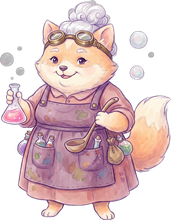
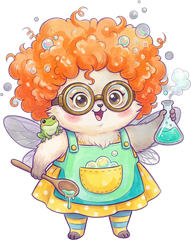
Build 102: new Madame Bubble and Stargazer Lun (glow so he stands out); teacher props moved off the teacher's walking path

diff --git a/js/game.js b/js/game.js
@@ -2,13 +2,13 @@
 import {
   OFFLINE_CAP_SEC, MAX_DESKS, MAX_ITEM_LEVEL, MAX_TEACHER_LEVEL, MAX_TIME_LEVEL,
   CLASSES, SPECIES, NAMES, MISSIONS, WORLDS, WORLD, META,
-} from './data.js?v=100';
-import { EMOJI_RE, emojiImage, preloadEmoji, watchEmoji, emojiHtml } from './emoji.js?v=100';
+} from './data.js?v=102';
+import { EMOJI_RE, emojiImage, preloadEmoji, watchEmoji, emojiHtml } from './emoji.js?v=102';
 
 const SAVE_KEY = WORLD === 1 ? 'magicschool.save.v2' : 'magicschool.save.v2.w' + WORLD;   // every world keeps its own save
 const saveKeyOf = (w) => (w === 1 ? 'magicschool.save.v2' : 'magicschool.save.v2.w' + w);
 const VERSION = '0.9';
-const BUILD = 100;   // keep equal to the ?v= number in index.html
+const BUILD = 102;   // keep equal to the ?v= number in index.html
 const $ = (s, r = document) => r.querySelector(s);
 const rnd = (a) => a[Math.floor(Math.random() * a.length)];
 
@@ -175,7 +175,7 @@ const DECOR = { portrait: { w: 1.2, lo: 0.3, deep: 0.7 }, certificates: { w: 1.3
 const PROP_H = { desk: 50, armchair: 30, palm: 44, tea_table: 22, cabinet: 34, counter: 82, bench_l: 32, bench_r: 32, signpost: 36, coat_rack: 42, bed_pink: 27, bed_mint: 27, bed_lilac: 27, conc_desk: 38, nightstand: 20, toy_chest: 20, pouf_pink: 20, pouf_green: 20, pouf_lilac: 20, lib_desk: 30, globe: 34, book_pile: 28, exdesk_a: 24, exdesk_b: 24, exdesk_c: 24, commission: 30, candelabra: 44, laurel: 42, trophy: 26, cr_fire: 30, cr_water: 30, cr_earth: 30, cr_air: 30, altar: 42, fountain: 30, lectb_lilac: 25, lectb_pink: 25, lectb_mint: 25, cloud_white: 17, cloud_pink: 17, cloud_lilac: 17, perch: 50, tree: 46, lect_lilac: 36, lect_pink: 36, lect_mint: 36, big_book: 52, crystal_ball: 26, tel_gold: 32, tel_silver: 32, tel_rose: 32, big_telescope: 46, orrery: 38, station_pink: 31, station_green: 31, station_purple: 31, big_cauldron: 40, plant: 46, lavender: 30, magic_pot: 27, barrel: 34, basket: 24, table: 34, bookcase: 40 };
 const parts = {};
 for (const [k, t] of Object.entries(THEMES)) for (const n of new Set(['wall', 'floor', t.rug, ...(t.isoOnly ? [] : [t.board, ...t.decor]), ...t.back, ...t.side, ...t.front, ...(t.stations || []), ...(t.seats || []), ...(t.beds || []), ...(t.extras ? t.extras({ x0: 0, y0: 0, x1: 0, y1: 0 }).map((o) => o.n) : []), ...(t.teacherProp ? [t.teacherProp] : []), ...(t.iso ? [t.board, ...t.decor].map((d) => 'iso_' + d) : [])])) {
-  if (!n) continue; const im = new Image(); im.src = `${t.dir}${n}.webp?v=100`; parts[k + '/' + n] = im;
+  if (!n) continue; const im = new Image(); im.src = `${t.dir}${n}.webp?v=102`; parts[k + '/' + n] = im;
 }
 const part = (th, n) => { const im = parts[th + '/' + n]; return im && im.complete && im.naturalWidth ? im : null; };
 const THEMES_OFF = new Set();   // parts still being drawn: keep the painted pictures until they are in
@@ -744,8 +744,10 @@ let scale = 1, dpr = 1, viewW = 0, viewH = 0, zoom = 2.2, pinching = false;
 const ZMIN = 0.9, ZMAX = 3.4;
 const sprites = {};
 // professors drawn one by one, each approved by Maria (class id -> file in assets/staff)
-const STAFF_ART = { herbs: 'moss', potions: 'bubble' };
-for (const [k, f] of Object.entries(STAFF_ART)) { const im = new Image(); im.src = `assets/staff/${f}.png?v=1`; sprites['staff_' + k] = im; }
+const STAFF_ART = { herbs: 'moss', potions: 'bubble', stars: 'lun' };
+const STAFF_H = { lun: 52, bubble: 40 };
+const STAFF_GLOW = { lun: 'rgba(255,240,190,0.95)' };   // drawn height: Lun is tall, Bubble small and round
+for (const [k, f] of Object.entries(STAFF_ART)) { const im = new Image(); im.src = `assets/staff/${f}.png?v=2`; sprites['staff_' + k] = im; }
 for (const sp of SPECIES) for (const v of ['', '_back']) { const im = new Image(); im.src = `assets/creatures/${sp}${v}.png`; sprites[sp + v] = im; }   // front and back views
 const arts = {};
 for (const [k, a] of Object.entries(ART)) { const im = new Image(); im.onload = () => { staticKey = ''; }; im.src = a.src; arts[k] = im; }
@@ -993,7 +995,7 @@ function roomProps(i) {
   if (T.front[0]) out.push({ n: T.front[0], x: s.x0 + 0.5, y: s.y1 - 0.45 });
   if (T.front[1]) out.push({ n: T.front[1], x: s.x1 - 0.55, y: s.y1 - 0.5 });
   if (T.front[2] && s.y1 - free >= 2.4) out.push({ n: T.front[2], x: s.x1 - 0.6, y: free + 0.5 });
-  if (T.teacherProp) { const tp = teacherPos(i); out.push({ n: T.teacherProp, x: tp.x - 1.15, y: tp.y + 0.15 }); }
+  if (T.teacherProp) { const tp = teacherPos(i); out.push({ n: T.teacherProp, x: Math.max(s.x0 + 0.9, tp.x - 3.0), y: tp.y + 0.1 }); }   // beside the teacher's walking path, never in front of it
   return out.map((o) => ({ ...o, th }));
 }
 function drawProp(o) {
@@ -1317,7 +1319,9 @@ function render() {
     }
     const tp = teacherWalk(i);   // the teacher strolls along the front of the class as if explaining (her wish 2026-11-21)
     { const own = WORLD === 1 && STAFF_ART[CLASSES[i].id] && sprites['staff_' + CLASSES[i].id];
-      if (own && own.complete && own.naturalWidth) { const t1 = { sp: 'staff_' + CLASSES[i].id, ph: performance.now() / 1000 + i, flip: tp.left, path: tp.moving ? [1] : [] }; add(tp.x, tp.y, () => drawCreature(t1, tp.x, tp.y, 44)); }   // own drawn professor (her approval, one at a time)
+      if (own && own.complete && own.naturalWidth) { const t1 = { sp: 'staff_' + CLASSES[i].id, ph: performance.now() / 1000 + i, flip: tp.left, path: tp.moving ? [1] : [] }; add(tp.x, tp.y, () => { const hh = STAFF_H[STAFF_ART[CLASSES[i].id]] || 44;
+        if (STAFF_GLOW[STAFF_ART[CLASSES[i].id]]) { const q = P(tp.x, tp.y), g = ctx.createRadialGradient(q.x, q.y - hh * 0.5, 2, q.x, q.y - hh * 0.5, hh * 0.75); g.addColorStop(0, STAFF_GLOW[STAFF_ART[CLASSES[i].id]]); g.addColorStop(1, 'rgba(255,240,200,0)'); ctx.fillStyle = g; ctx.beginPath(); ctx.arc(q.x, q.y - hh * 0.5, hh * 0.75, 0, Math.PI * 2); ctx.fill(); }   // a soft glow so a dark professor stands out in a dark room
+        drawCreature(t1, tp.x, tp.y, hh); }); }   // own drawn professor (her approval, one at a time)
       else { const t0 = staff[(i + 1) % staff.length], tch = { ...t0, back: frontFacing(i), flip: tp.left, path: tp.moving ? [1] : [], ph: performance.now() / 1000 + i }; add(tp.x, tp.y, () => drawCreature(tch, tp.x, tp.y, 34, (x, y) => drawHat(x, y - 32, '#6c4fd1'))); } }
     const thI = themeOf(CLASS_SLOT[i]), stations = thI && THEMES[thI].stations;   // potions: a little cauldron instead of a desk
     for (let d = 0; d < st.desks; d++) { const p = deskPos(i, d); if (stations && part(thI, stations[d % stations.length])) { const o = { n: stations[d % stations.length], x: p.x, y: p.y, th: thI }; add(p.x, p.y, () => drawProp(o)); } else add(p.x, p.y, () => drawDesk(p)); }

diff --git a/index.html b/index.html
@@ -12,7 +12,7 @@
 <link rel="manifest" href="manifest.webmanifest">
 <link rel="apple-touch-icon" href="icons/icon-180.png">
 <link rel="icon" href="icons/icon-192.png">
-<link rel="stylesheet" href="style.css?v=100">
+<link rel="stylesheet" href="style.css?v=102">
 </head>
 <body>
 <div id="app">
@@ -34,6 +34,6 @@ window.addEventListener('error',function(e){showErr(e.message+' @'+(e.filename||
 window.addEventListener('unhandledrejection',function(e){showErr(String(e.reason));});
 if(!CanvasRenderingContext2D.prototype.roundRect){CanvasRenderingContext2D.prototype.roundRect=function(x,y,w,h){this.rect(x,y,w,h);};}
 </script>
-<script type="module" src="js/game.js?v=100"></script>
+<script type="module" src="js/game.js?v=102"></script>
 </body>
 </html>

diff --git a/js/emoji.js b/js/emoji.js
@@ -1,6 +1,6 @@
 // One emoji look on every device: emoji characters are replaced by bundled Twemoji pictures
 // (CC-BY 4.0, https://github.com/jdecked/twemoji), both in the page (DOM) and on the canvas.
-import { EMOJI_FILES } from './emoji-set.js?v=100';
+import { EMOJI_FILES } from './emoji-set.js?v=102';
 
 export const EMOJI_RE = /\p{Extended_Pictographic}(?:|\p{Extended_Pictographic}?|[\u{1F3FB}-\u{1F3FF}])*/gu;
 
